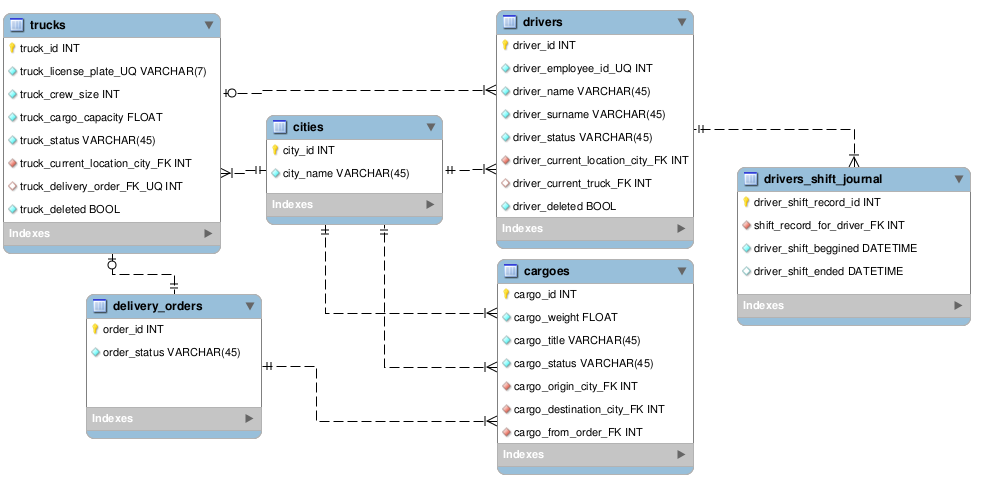
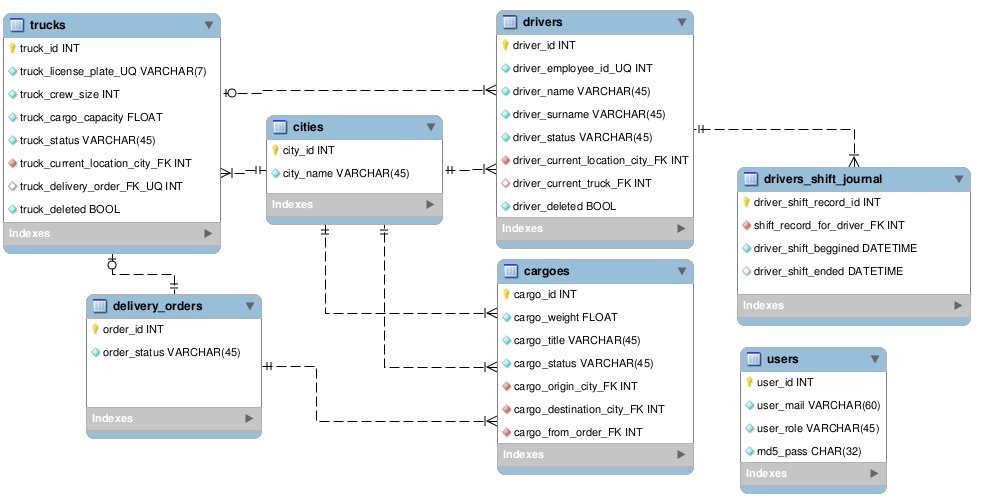
Discription updated

diff --git a/deployment-guide.MD b/deployment-guide.MD
@@ -6,6 +6,9 @@ DEPLOYMENT GUIDE
 3. mvn clean install
 4. mvn tomcat:run       (or put /target/logiweb.war into your AppServer webapp directory)
 
+Mock data includes two users: manager@logiweb.com & driver@logiweb.com
+Passwords: 12345
+
 If settings are default: http://localhost:8080/logiweb/ 
 
 Edit ./persistence.xml to change db connection settings.
